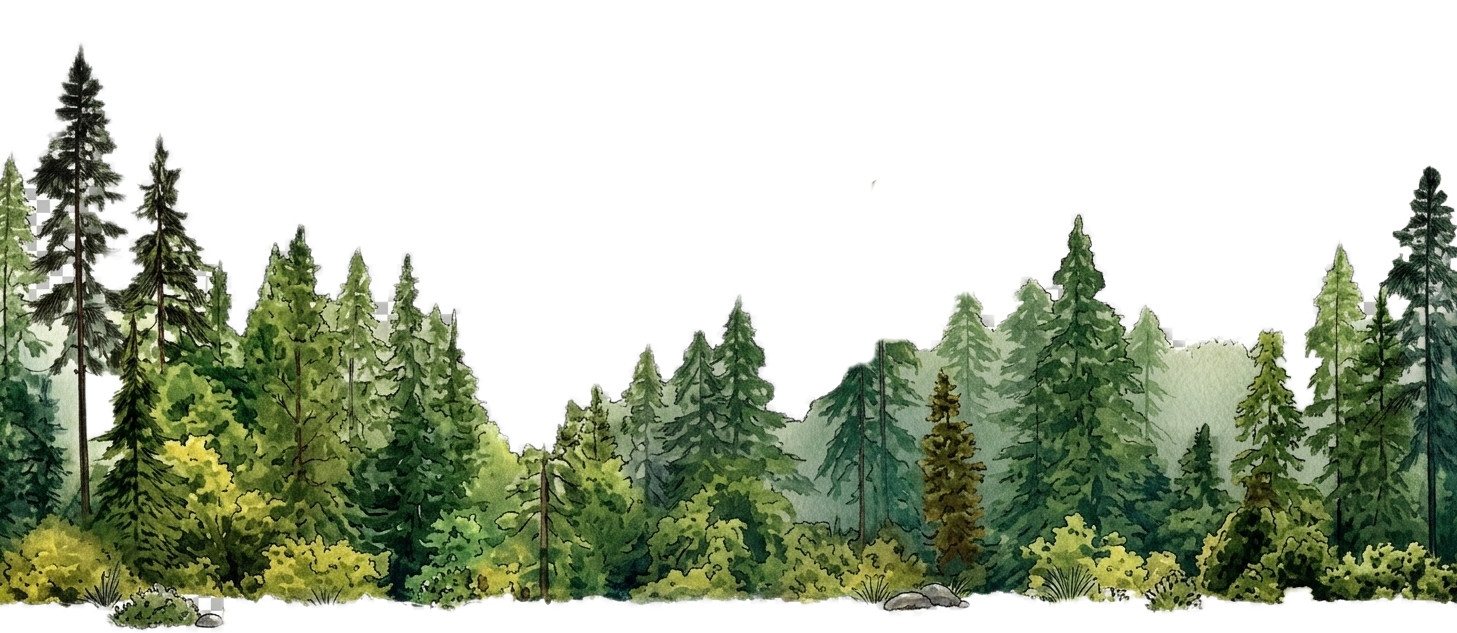
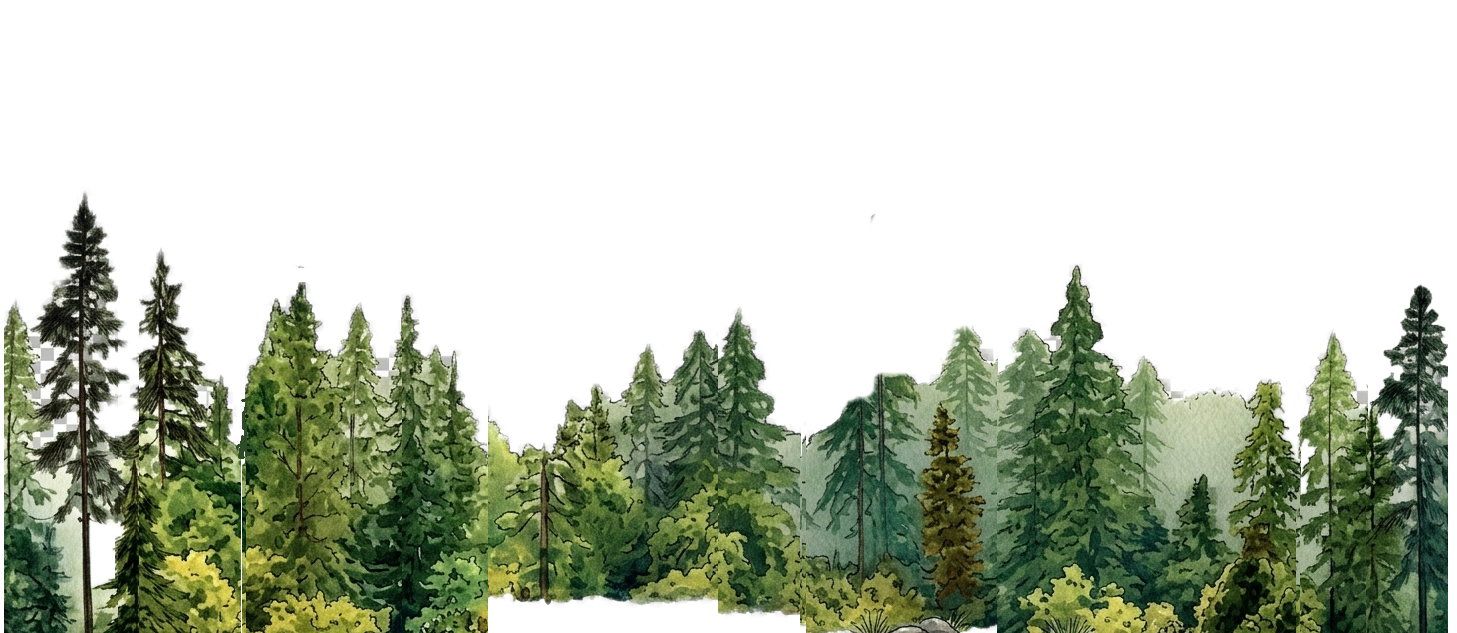
background: add fog

diff --git a/src/public/scripts/gsap_animations/gsap_script.js b/src/public/scripts/gsap_animations/gsap_script.js
@@ -178,6 +178,18 @@ gsap.to("#mountains", {
     }
 });
 
+gsap.to("#fog", {
+    y: -600,
+    ease: "power3.out",
+
+    scrollTrigger:{
+        trigger:"#start",
+        start:"top top",
+        end:"=530",
+        scrub: 1
+    }
+});
+
 gsap.to("#forest", {
     y: -650,
     ease: "power3.out",
@@ -190,6 +202,17 @@ gsap.to("#forest", {
     }
 });
 
+gsap.to("#fog2", {
+    y: -630,
+    ease: "power3.out",
+
+    scrollTrigger:{
+        trigger:"#start",
+        start:"top top",
+        end:"=500",
+        scrub: 1
+    }
+});
 
 gsap.to("#waterfall", {
     y: -800,
@@ -199,6 +222,30 @@ gsap.to("#waterfall", {
         trigger:"#start",
         start:"top top",
         end:"+=600",
+        scrub: 1
+    }
+});
+
+gsap.to("#fog2", {
+    y: -630,
+    ease: "power3.out",
+
+    scrollTrigger:{
+        trigger:"#start",
+        start:"top top",
+        end:"=500",
+        scrub: 1
+    }
+});
+
+gsap.to("#fog3", {
+    y: -660,
+    ease: "power3.out",
+
+    scrollTrigger:{
+        trigger:"#clock",
+        start:"center top",
+        end:"=530",
         scrub: 1
     }
 });

diff --git a/src/public/css/gsap_background_style.css b/src/public/css/gsap_background_style.css
@@ -27,9 +27,16 @@
     top: 720px;
 }
 
+#fog{
+    top: 715px;
+}
+
 #forest{
-    width: 100%;
-    top: 750px;
+    top: 730px;
+}
+
+#fog2{
+    top: 910px;
 }
 
 #waterfall{
@@ -38,6 +45,10 @@
 
 #tree{
     top: 590px;
+}
+
+#fog3{
+    top: 950px;
 }
 
 #cloud1{

diff --git a/src/public/css/output.css b/src/public/css/output.css
@@ -2715,12 +2715,16 @@ video {
   text-decoration-line:none
 }
 
-.opacity-100{
-  opacity:1
+.opacity-0{
+  opacity:0
 }
 
 .opacity-95{
   opacity:0.95
+}
+
+.opacity-100{
+  opacity:1
 }
 
 .shadow-\[0_0_10px_3px_currentColor\]{
